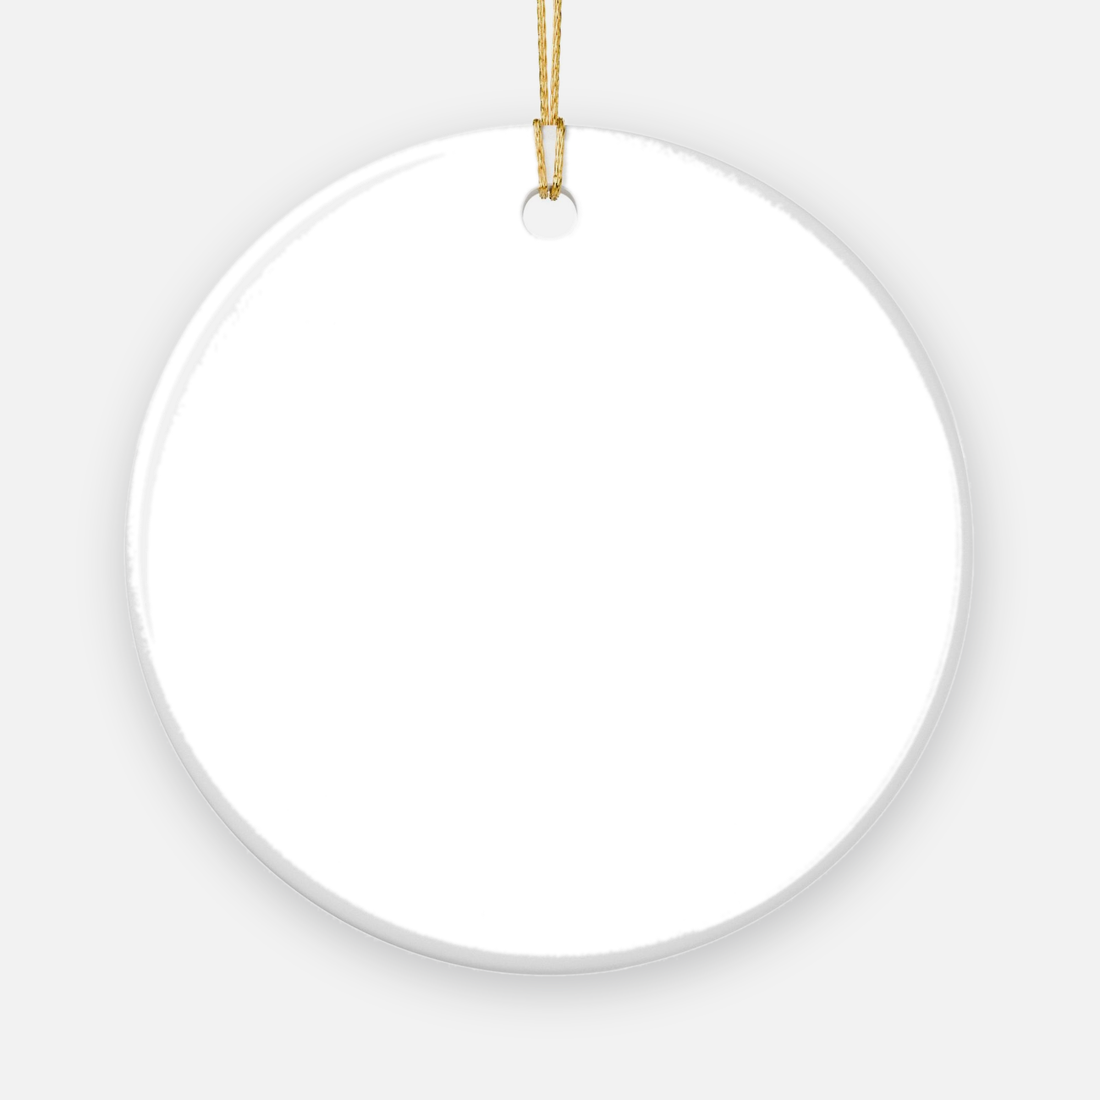
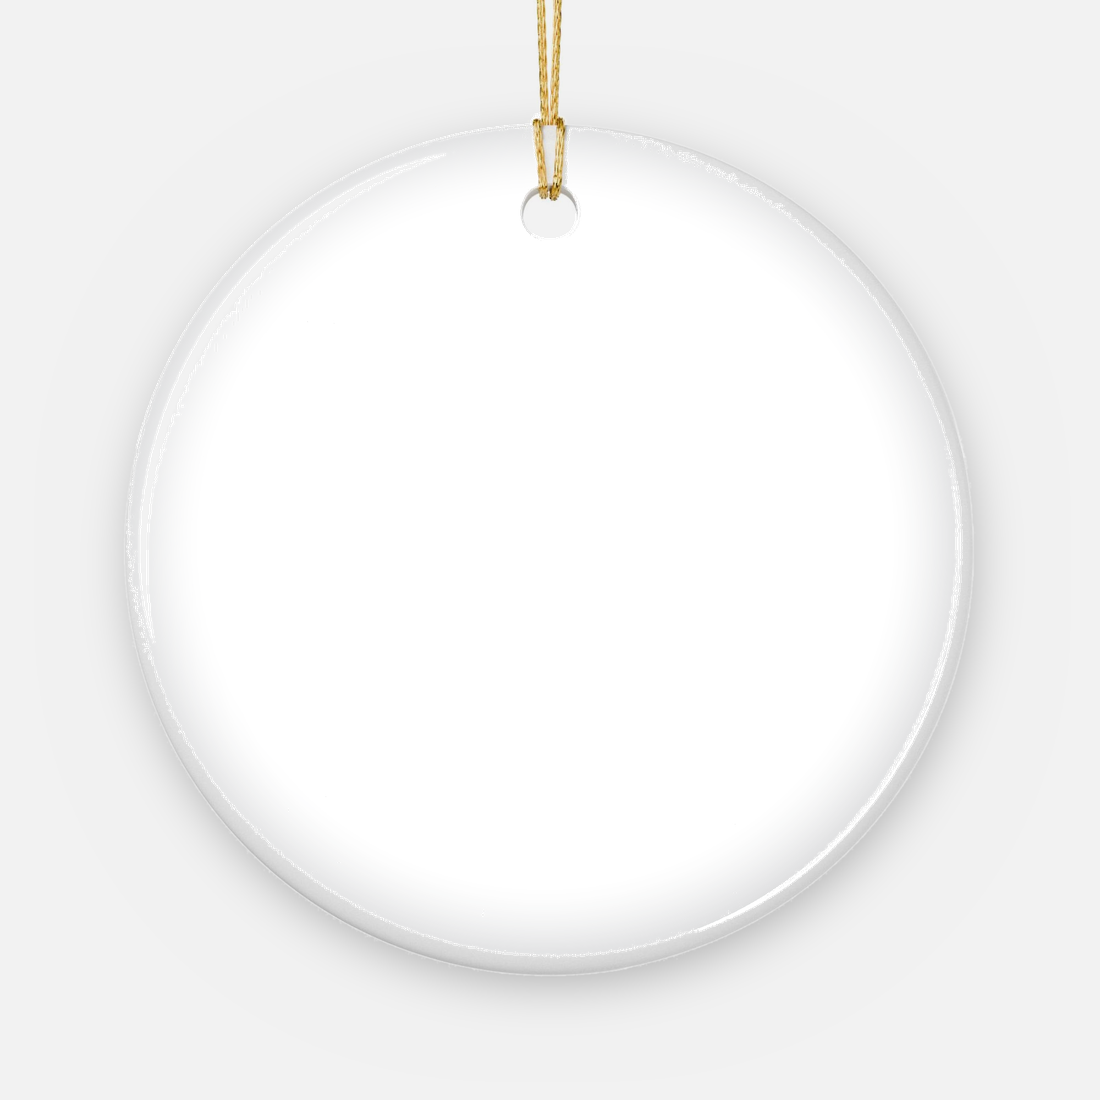
Ornament mockup: bake ceramic gloss onto the face
Add the ceramic's gloss to the printable face so the customer photo reads as
printed on curved glossy ceramic, not a flat sticker — a soft upper-left sheen
plus a faint domed edge-shadow, applied as a low-alpha overlay on the erased
face so the photo shows through (~85%) but picks up highlight and edge shading.
Mirrors the shading approach in the mockup generator. Hole, cord, rim and drop
shadow stay opaque. rect nudged in product-preview.js and unsplash-samples.js.

Claude-Session: https://claude.ai/code/session_01XZrfFYhyt8N6RMYYLcASwM

diff --git a/public/unsplash-samples.js b/public/unsplash-samples.js
@@ -168,7 +168,7 @@
        corners into a round shape. Keeps the storefront card identical to the
        order.html preview. rect must stay in sync with MOCKUPS.ornament in
        product-preview.js. */
-    ornament: { template: '/assets/mockups/ornament.png', rect: { x: 0.1155, y: 0.1120, w: 0.7590, h: 0.7585 }, cutout: true },
+    ornament: { template: '/assets/mockups/ornament.png', rect: { x: 0.1155, y: 0.1030, w: 0.7585, h: 0.7670 }, cutout: true },
     print:  { template: '/assets/mockups/print.jpg',  rect: { x: 0.190, y: 0.113, w: 0.626, h: 0.782 }, crop: { x: 0.168, y: 0.089, w: 0.667, h: 0.823 } },
     tile:   { template: '/assets/mockups/tile.jpg',   rect: { x: 0.280, y: 0.206, w: 0.427, h: 0.598 }, crop: { x: 0.242, y: 0.167, w: 0.521, h: 0.696 } },
     canvas: { template: '/assets/mockups/canvas.jpg', rect: { x: 0.190, y: 0.112, w: 0.670, h: 0.804 }, crop: { x: 0.168, y: 0.094, w: 0.709, h: 0.869 } },

diff --git a/public/product-preview.js b/public/product-preview.js
@@ -29,7 +29,7 @@
              goes underneath and the template's own pixels — gold string, the hole,
              the rim shading, the drop shadow — sit on top. Not `cylinder`: it is
              flat, so there is no curvature to shade. */
-          ornament: { template: '/assets/mockups/ornament.png', rect: { x: 0.1155, y: 0.1120, w: 0.7590, h: 0.7585 }, cutout: true },
+          ornament: { template: '/assets/mockups/ornament.png', rect: { x: 0.1155, y: 0.1030, w: 0.7585, h: 0.7670 }, cutout: true },
           mug:    { template: '/assets/mockups/mug.png',    rect: { x: 0.1850, y: 0.1767, w: 0.5596, h: 0.6778 }, cutout: true, cylinder: true },
         };
 
